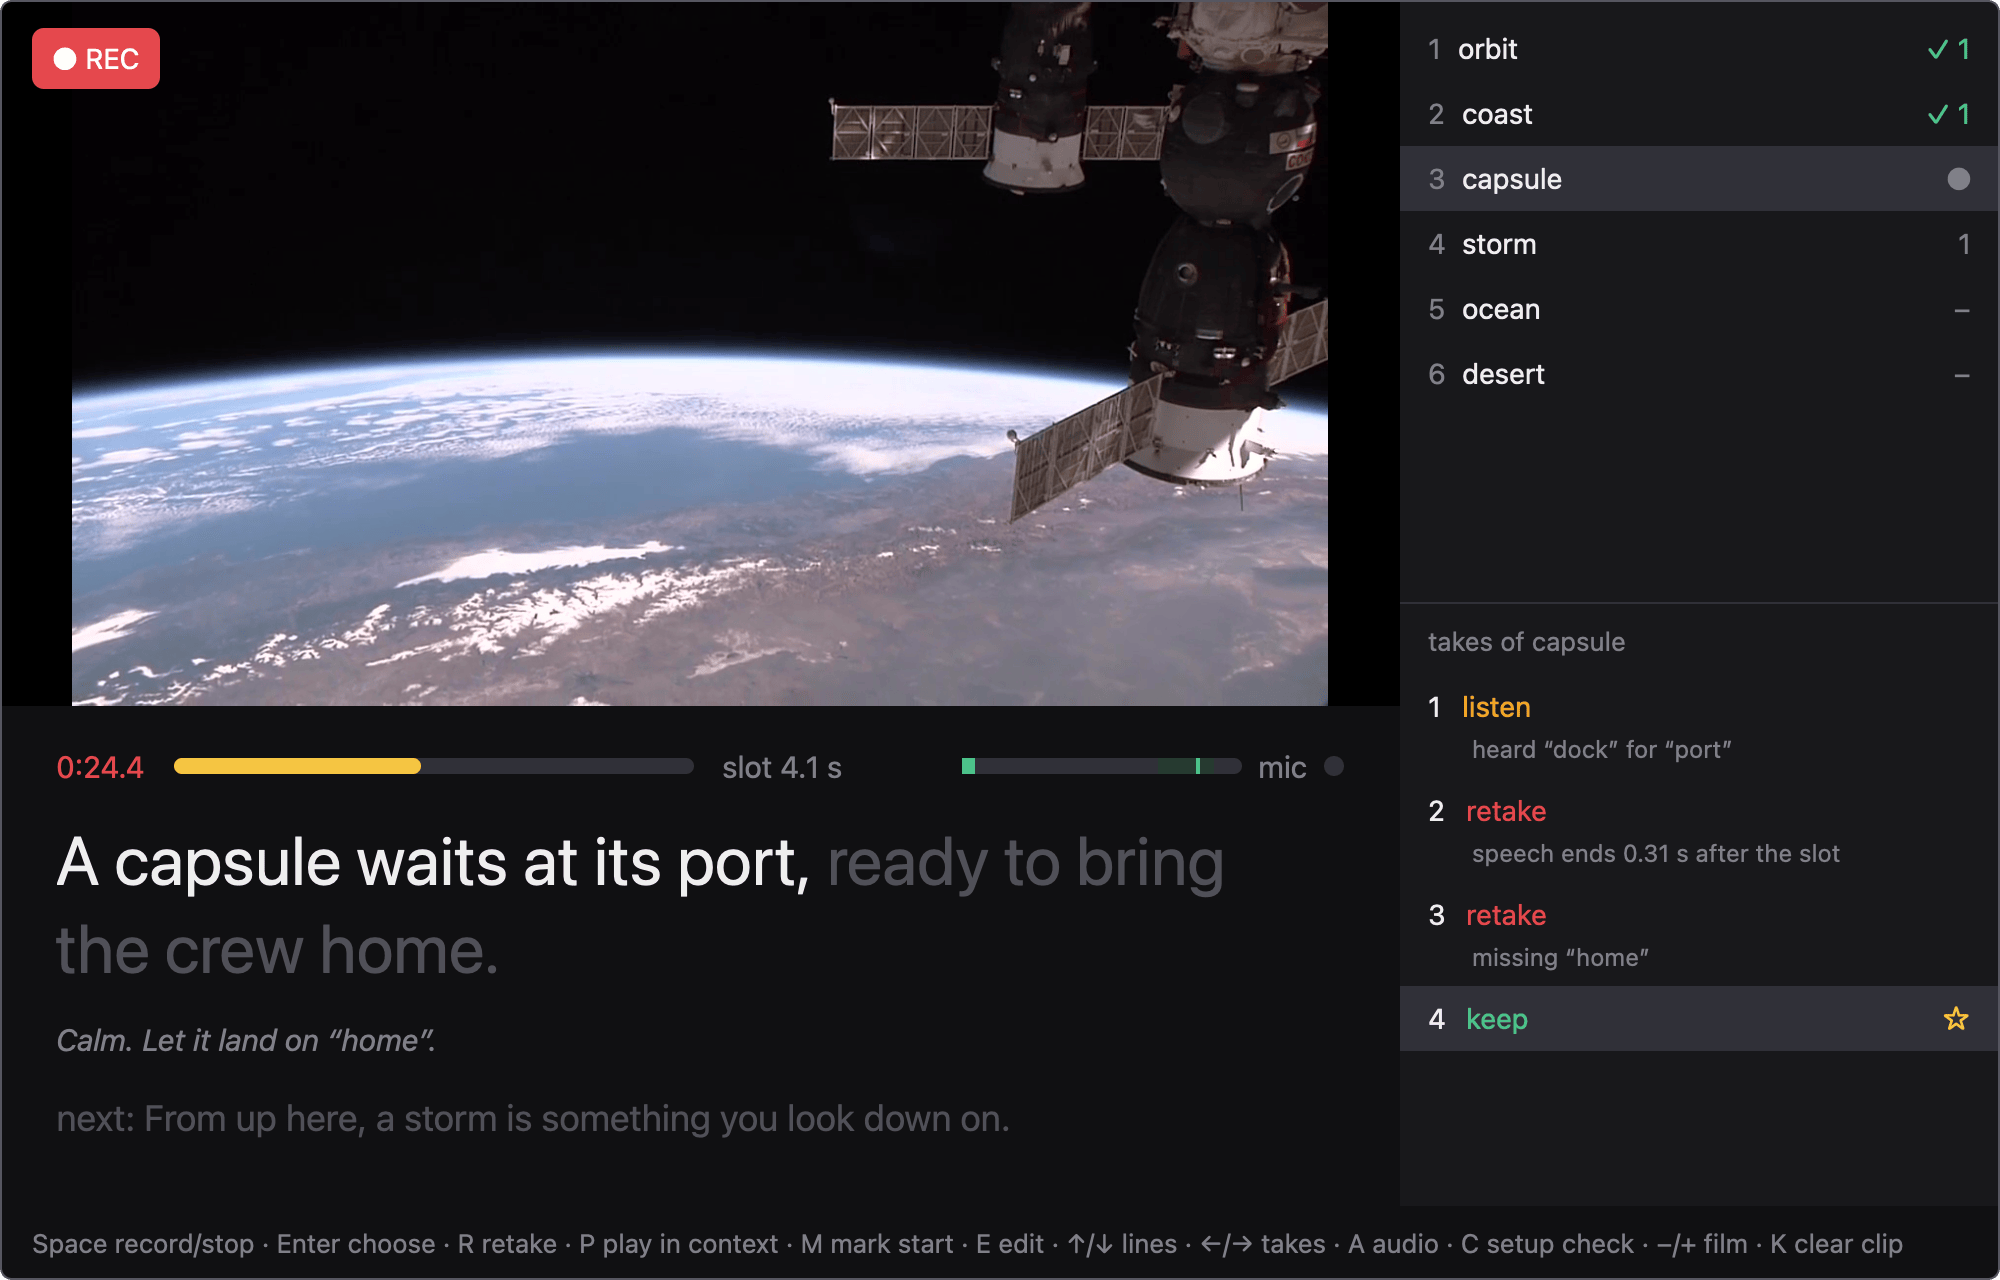
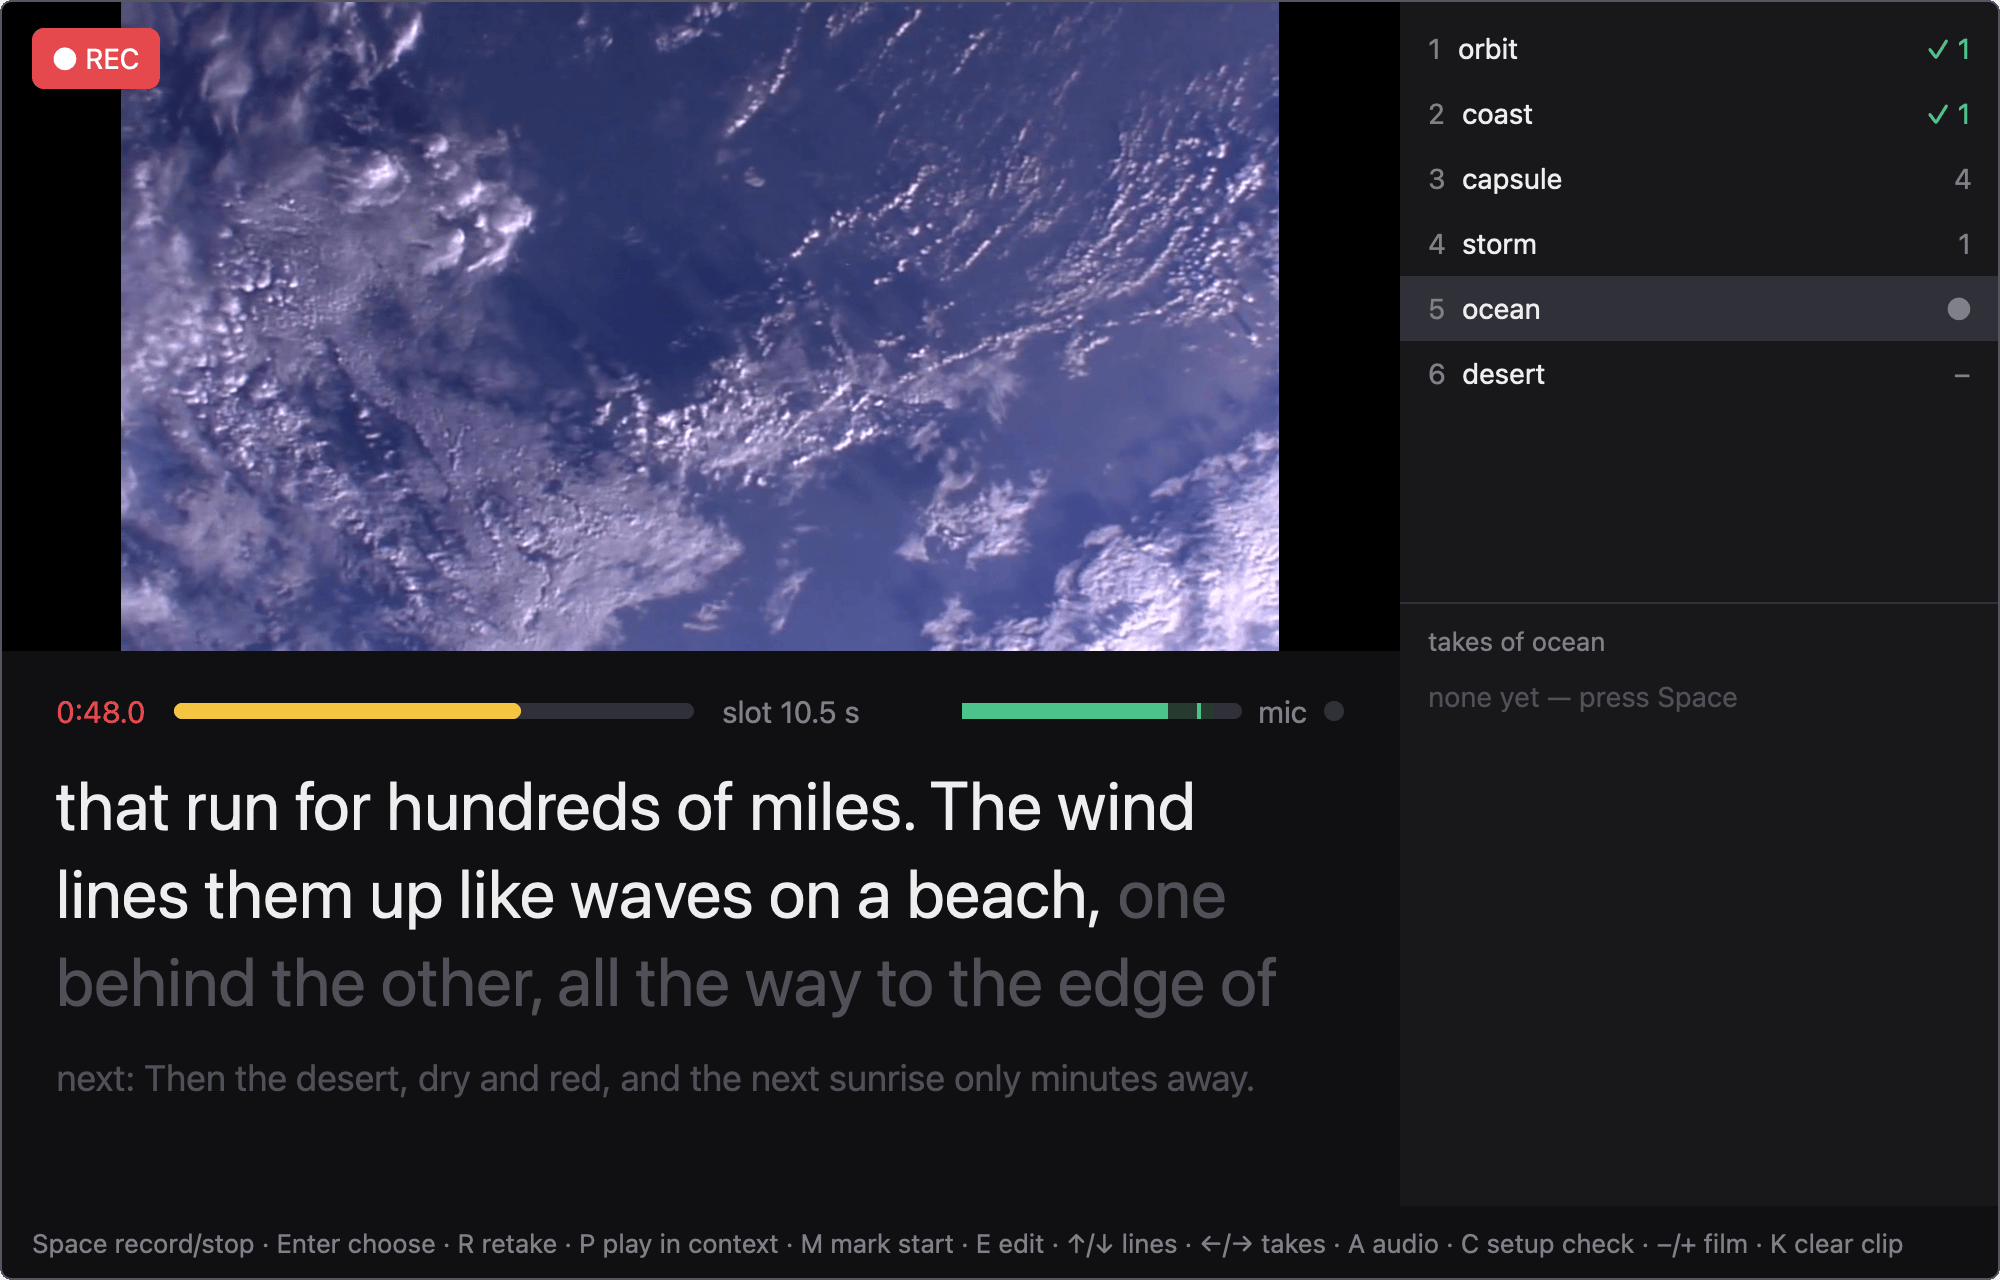
chore(screenshots): a scrolling long line, verdict close-ups and a social preview
- recording.png shows a take of a long line mid-scroll instead of
  repeating the loop's line and verdicts.
- The loop opens on the count-in, now over the dark sky beside the
  docked capsule, shows each verdict as a sharp close-up of the takes
  and holds the chosen take for three seconds.
- social-preview.png (1280x640) sets a recording window beside the
  icon and name, for the repository's settings.
- The icon is no longer re-quantized on every run.

diff --git a/crates/takewise/src/window/screenshots.rs b/crates/takewise/src/window/screenshots.rs
@@ -11,8 +11,10 @@
 //! the harness's; the "microphone" is fed from the spoken files. Each window
 //! is put into the state to show through its own methods and rendered
 //! offscreen to `<out>/*.png`; the short loop `<out>/loop.webp` is a series
-//! of such renders of two takes recorded and checked in a window, put
-//! together with `img2webp`. Nothing plays, no microphone opens, no window
+//! of such renders of two takes recorded and checked in a window, with
+//! close-ups of their verdicts, put together with `img2webp`; the
+//! repository's social preview `<out>/social-preview.png` sets a render
+//! beside the app's icon and name. Nothing plays, no microphone opens, no window
 //! appears and no key or mouse event is sent. `scripts/screenshots`
 //! compresses the PNGs afterwards.
 
@@ -57,8 +59,8 @@ text = "Clouds pile up where the ocean meets the land."
 
 [[line]]
 id = "capsule"
-start = 22.5
-end = 26.6
+start = 25.0
+end = 29.1
 text = "A capsule waits at its port, ready to bring the crew home."
 note = "Calm. Let it land on “home”."
 
@@ -70,9 +72,9 @@ text = "From up here, a storm is something you look down on."
 
 [[line]]
 id = "ocean"
-start = 42.5
-end = 47.8
-text = "Below, the open ocean, and rows of cloud that run for hundreds of miles."
+start = 41.0
+end = 51.5
+text = "Below, the open ocean, and rows of cloud that run for hundreds of miles. The wind lines them up like waves on a beach, one behind the other, all the way to the edge of the sky."
 
 [[line]]
 id = "desert"
@@ -138,6 +140,9 @@ const HERO: (f32, f32) = (1000.0, 640.0);
 const LOOP_TAKES: [usize; 2] = [4, 5];
 /// The loop's width in pixels.
 const LOOP_WIDTH: u32 = 1000;
+/// The loop's close-up of the takes and their verdicts, in logical pixels
+/// of a [`HERO`] window: the side column's list of takes.
+const CLOSE_UP: (f32, f32, f32, f32) = (700.0, 304.0, 300.0, 128.0);
 
 /// Runs `takewise screenshots <work> <out>`.
 pub fn main(args: &[OsString]) -> ExitCode {
@@ -950,7 +955,8 @@ fn select_line(view: &mut RecordingWindow, id: &str) {
 async fn shoot(demo: &Demo, work: &Path, out: &Path, cx: &mut AsyncApp) -> Result<(), String> {
     setup_check(demo, out, cx).await?;
     audio_panel(demo, out, cx).await?;
-    recording(demo, out, cx).await?;
+    recording(demo, work, out, cx).await?;
+    social_preview(demo, work, out, cx).await?;
     take_loop(demo, work, out, cx).await?;
     take_list(demo, out, cx).await
 }
@@ -1031,7 +1037,7 @@ async fn audio_panel(demo: &Demo, out: &Path, cx: &mut AsyncApp) -> Result<(), S
         WINDOW.0,
         (WINDOW.0 - 300.0 - 320.0, 0.0, 319.0, 362.0),
     );
-    let meter = crop(&image, WINDOW.0, (266.0, 541.0, 374.0, 44.0));
+    let meter = crop(&image, WINDOW.0, (266.0, 500.0, 374.0, 44.0));
     let both = compose(
         &[panel, meter],
         Axis::Column,
@@ -1041,14 +1047,29 @@ async fn audio_panel(demo: &Demo, out: &Path, cx: &mut AsyncApp) -> Result<(), S
     write_png(&out.join("audio-panel.png"), &framed(&both, scale))
 }
 
-/// The hero: a fifth take of the capsule line being recorded, the line
-/// filled up to a word's end over the film's frame. It records into a
-/// copy of the project, so the take list after it stays at four takes.
-async fn recording(demo: &Demo, out: &Path, cx: &mut AsyncApp) -> Result<(), String> {
+/// A take of the long ocean line being recorded, the pace guide on its
+/// third row, so the line has scrolled up by one.
+async fn recording(demo: &Demo, work: &Path, out: &Path, cx: &mut AsyncApp) -> Result<(), String> {
+    let image = mid_take(demo, work, "ocean", "like waves on a beach,", cx).await?;
+    let scale = scale_of(&image, HERO.0);
+    write_png(&out.join("recording.png"), &framed(&image, scale))
+}
+
+/// A render of a [`HERO`] window recording a take of `line`, the pace
+/// guide filled up to the end of `filled_to`, while the voice reads the
+/// line. It records into a copy of the project, so the take list after it
+/// stays as it was.
+async fn mid_take(
+    demo: &Demo,
+    work: &Path,
+    line: &str,
+    filled_to: &str,
+    cx: &mut AsyncApp,
+) -> Result<RgbaImage, String> {
     let copy = demo.dir.with_file_name("recording.takewise");
     copy_dir(&demo.dir, &copy)?;
     let shot = Shot::open(&copy, HERO, false, cx).await?;
-    shot.update(cx, |view| select_line(view, "capsule"));
+    shot.update(cx, |view| select_line(view, line));
     let start = shot.media.now();
     shot.run_until(cx, start + 0.5).await;
     shot.update(cx, RecordingWindow::start_take);
@@ -1061,23 +1082,25 @@ async fn recording(demo: &Demo, out: &Path, cx: &mut AsyncApp) -> Result<(), Str
             .slot_end(view.line, view.project.film_duration());
         (line.start, end, line.text.clone())
     });
-    // The film time at which the pace guide has filled "…at its port,".
+    let voice = speak(&text, &work.join("voices").join(format!("{line}.wav")))?;
     let reading = super::prompter::Reading {
         text: &text,
         start: reading_start,
         end: reading_end,
     };
-    let filled = text.find("port,").map_or(text.len() / 3, |at| at + 5);
+    let filled = text
+        .find(filled_to)
+        .map_or(text.len() / 2, |at| at + filled_to.len());
     let mut shoot_at = reading_start;
     while super::prompter::filled_bytes(reading, shoot_at) < filled && shoot_at < reading_end {
         shoot_at += 0.005;
     }
     let mut speaking = false;
-    for _ in 0..400 {
+    for _ in 0..1000 {
         let film_s = shot.playhead(cx);
         if let Some(film_s) = film_s {
             if !speaking && film_s >= reading_start + LEAD_S {
-                shot.media.hear(demo.voice("capsule"));
+                shot.media.hear(voice.clone());
                 speaking = true;
             }
             if film_s >= shoot_at - 1e-6 {
@@ -1089,10 +1112,127 @@ async fn recording(demo: &Demo, out: &Path, cx: &mut AsyncApp) -> Result<(), Str
         let now = shot.media.now();
         shot.run_until(cx, now + step).await;
     }
-    let image = shot.render(cx).await?;
+    let image = shot.render(cx).await;
     shot.close(cx);
-    let scale = scale_of(&image, HERO.0);
-    write_png(&out.join("recording.png"), &framed(&image, scale))
+    image
+}
+
+/// The repository's social preview, 1280×640: the app's icon, name and
+/// what it is beside a window recording the capsule line. Not linked from
+/// the README; it is uploaded in the repository's settings.
+async fn social_preview(
+    demo: &Demo,
+    work: &Path,
+    out: &Path,
+    cx: &mut AsyncApp,
+) -> Result<(), String> {
+    const CARD: (f32, f32) = (1280.0, 640.0);
+    let window = mid_take(demo, work, "capsule", "port,", cx).await?;
+    let window = framed(&window, scale_of(&window, HERO.0));
+    let icon = image::open(out.join("icon.png"))
+        .map_err(|err| format!("{}: {err}", out.join("icon.png").display()))?
+        .to_rgba8();
+    let card = Card {
+        icon: render_image(&icon),
+        window: render_image(&window),
+    };
+    let (handle, _) = cx.update(|cx| {
+        let options = WindowOptions {
+            window_bounds: Some(WindowBounds::Windowed(Bounds {
+                origin: point(px(0.), px(0.)),
+                size: size(px(CARD.0), px(CARD.1)),
+            })),
+            focus: false,
+            show: false,
+            ..WindowOptions::default()
+        };
+        gpui_kit::open_window(options, cx, |_, cx| cx.new(|_| card))
+            .map_err(|err| format!("cannot open the window: {err}"))
+    })?;
+    let draw = |cx: &mut AsyncApp| {
+        cx.update(|cx| {
+            let _ = handle.update(cx, |_, window, cx| {
+                window.refresh();
+                window.draw(cx).clear(cx);
+            });
+        });
+    };
+    for _ in 0..10 {
+        draw(cx);
+        wait(cx, 0.05).await;
+    }
+    draw(cx);
+    let image = cx
+        .update(|cx| handle.update(cx, |_, window, _| window.render_to_image()))
+        .map_err(|err| err.to_string())?
+        .map_err(|err| err.to_string())?;
+    cx.update(|cx| {
+        let _ = handle.update(cx, |_, window, _| window.remove_window());
+    });
+    #[allow(clippy::cast_possible_truncation, clippy::cast_sign_loss)]
+    let small = image::imageops::resize(
+        &image,
+        CARD.0 as u32,
+        CARD.1 as u32,
+        image::imageops::FilterType::Lanczos3,
+    );
+    write_png(&out.join("social-preview.png"), &small)
+}
+
+/// An RGBA image as GPUI draws it (BGRA).
+fn render_image(image: &RgbaImage) -> Arc<gpui_kit::RenderImage> {
+    let mut bgra = image.clone();
+    for pixel in bgra.pixels_mut() {
+        pixel.0.swap(0, 2);
+    }
+    Arc::new(gpui_kit::RenderImage::new(vec![image::Frame::new(bgra)]))
+}
+
+/// The social preview's layout.
+struct Card {
+    icon: Arc<gpui_kit::RenderImage>,
+    window: Arc<gpui_kit::RenderImage>,
+}
+
+impl gpui_kit::Render for Card {
+    fn render(
+        &mut self,
+        _: &mut gpui_kit::Window,
+        _: &mut gpui_kit::Context<Self>,
+    ) -> impl gpui_kit::IntoElement {
+        use gpui_kit::{FontWeight, ParentElement as _, Styled as _, div, img, rgb};
+        div()
+            .size_full()
+            .flex()
+            .flex_row()
+            .items_center()
+            .gap(px(44.))
+            .px(px(56.))
+            .bg(rgb(super::colors::BACKGROUND))
+            .text_color(rgb(super::colors::TEXT))
+            .child(
+                div()
+                    .w(px(400.))
+                    .flex()
+                    .flex_col()
+                    .gap(px(18.))
+                    .child(img(self.icon.clone()).size(px(104.)))
+                    .child(
+                        div()
+                            .text_size(px(64.))
+                            .font_weight(FontWeight::BOLD)
+                            .child("Takewise"),
+                    )
+                    .child(
+                        div()
+                            .text_size(px(27.))
+                            .line_height(px(36.))
+                            .text_color(rgb(super::colors::DIM))
+                            .child("A Mac app for recording voiceover over a finished film."),
+                    ),
+            )
+            .child(img(self.window.clone()).w(px(724.)).h(px(463.36)))
+    }
 }
 
 /// The loop's frames and how long each shows, in milliseconds.
@@ -1100,6 +1240,32 @@ async fn recording(demo: &Demo, out: &Path, cx: &mut AsyncApp) -> Result<(), Str
 struct Frames(Vec<(RgbaImage, u32)>);
 
 impl Frames {
+    /// Adds a render of the window, scaled to [`LOOP_WIDTH`] and dimmed,
+    /// with `region` (logical pixels) of it on top at the render's full
+    /// resolution: a close-up whose text stays sharp in the README.
+    fn add_close_up(&mut self, image: &RgbaImage, region: (f32, f32, f32, f32), ms: u32) {
+        const DIM: f32 = 0.35;
+        let height = image.height() * LOOP_WIDTH / image.width();
+        let mut base = image::imageops::resize(
+            image,
+            LOOP_WIDTH,
+            height,
+            image::imageops::FilterType::Lanczos3,
+        );
+        for pixel in base.pixels_mut() {
+            for channel in &mut pixel.0[..3] {
+                #[allow(clippy::cast_possible_truncation, clippy::cast_sign_loss)]
+                let dimmed = (f32::from(*channel) * DIM).round() as u8;
+                *channel = dimmed;
+            }
+        }
+        let part = framed(&crop(image, HERO.0, region), scale_of(image, HERO.0));
+        let x = (base.width().saturating_sub(part.width())) / 2;
+        let y = (base.height().saturating_sub(part.height())) / 2;
+        image::imageops::overlay(&mut base, &part, i64::from(x), i64::from(y));
+        self.0.push((framed(&base, scale_of(&base, HERO.0)), ms));
+    }
+
     /// Adds a render of the window, scaled to [`LOOP_WIDTH`] and framed.
     fn add(&mut self, image: &RgbaImage, ms: u32) {
         let height = image.height() * LOOP_WIDTH / image.width();
@@ -1164,10 +1330,15 @@ async fn take_loop(demo: &Demo, work: &Path, out: &Path, cx: &mut AsyncApp) -> R
     let start = shot.media.now();
     shot.run_until(cx, start + 0.5).await;
     let mut frames = Frames::default();
-    frames.add(&shot.render(cx).await?, 1000);
     for (n, &spoken) in LOOP_TAKES.iter().enumerate() {
         shot.update(cx, RecordingWindow::start_take);
+        let first = frames.0.len();
         record(&shot, &demo.spoken[spoken], &mut frames, cx).await?;
+        if n == 0 {
+            // The loop opens on the count-in's first frame: hold it a
+            // little, as the still a page shows before it plays.
+            frames.0[first].1 = 500;
+        }
         shot.update(cx, RecordingWindow::finish_take);
         shot.wait_for(cx, "the take to be saved", |view| {
             view.line_state().is_some_and(|line| line.takes.len() > n)
@@ -1181,7 +1352,9 @@ async fn take_loop(demo: &Demo, work: &Path, out: &Path, cx: &mut AsyncApp) -> R
                 && view.checks.pending_of("capsule").is_empty()
         })
         .await?;
-        frames.add(&shot.render(cx).await?, if n == 0 { 1800 } else { 1400 });
+        let checked = shot.render(cx).await?;
+        frames.add(&checked, 600);
+        frames.add_close_up(&checked, CLOSE_UP, if n == 0 { 2000 } else { 1400 });
     }
     // Enter: the narrator chooses the kept take.
     let chosen = u32::try_from(LOOP_TAKES.len()).unwrap_or(1);
@@ -1195,7 +1368,9 @@ async fn take_loop(demo: &Demo, work: &Path, out: &Path, cx: &mut AsyncApp) -> R
             Err(err) => view.message = Some(err.to_string()),
         }
     });
-    frames.add(&shot.render(cx).await?, 2400);
+    let chosen = shot.render(cx).await?;
+    frames.add(&chosen, 900);
+    frames.add_close_up(&chosen, CLOSE_UP, 3000);
     shot.close(cx);
     frames.write_webp(&work.join("loop-frames"), &out.join("loop.webp"))
 }
